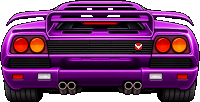
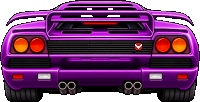
Diablo: piscas traseiros nas lanternas de fora, como no carro real (v0.22.5)
Claude-Session: https://claude.ai/code/session_01MLD9VR7gkmY4w6a9beZcp6

Changed region(s): [[0.06, 0.3529, 0.24, 0.5294]]

diff --git a/src/cars.ts b/src/cars.ts
@@ -320,8 +320,8 @@ export const DEALER_CARS = CARS.filter((c) => !c.arcadeOnly);
 const VARIANT_PAINT: Record<string, string> = { nero: 'Deep Black', rosso: 'Rosso Lucido', blu: 'Blu Le Mans', verde: 'Verde Ithaca', giallo: 'Giallo' };
 
 const LAMPS: Record<string, LampDef> = {
-  diablo: { pop: [0.14, 0.485, 0.3, 0.6], sigRear: [0.183, 0.44, 0.04], sigFront: [0.113, 0.7, 0.175, 0.75] },
-  patrolsv: { pop: [0.14, 0.495, 0.3, 0.608], podColor: '#1c1c1e', sigRear: [0.183, 0.466, 0.04], sigFront: [0.113, 0.706, 0.175, 0.755] }, // Diablo novo + giroflex (patrolsv_sprites.py)
+  diablo: { pop: [0.14, 0.485, 0.3, 0.6], sigRear: [0.106, 0.43, 0.04], sigFront: [0.113, 0.7, 0.175, 0.75] },
+  patrolsv: { pop: [0.14, 0.495, 0.3, 0.608], podColor: '#1c1c1e', sigRear: [0.106, 0.458, 0.04], sigFront: [0.113, 0.706, 0.175, 0.755] }, // Diablo novo + giroflex (patrolsv_sprites.py)
   f40: { head: [0.195, 0.613, 0.03], sigRear: [0.138, 0.446, 0.04], sigFront: [0.105, 0.595, 0.165, 0.649] },
   zr1: { pop: [0.105, 0.385, 0.29, 0.505], sigRear: [0.135, 0.39, 0.045], sigRed: true, sigFront: [0.03, 0.66, 0.07, 0.73] },
   testarossa: { pop: [0.067, 0.424, 0.256, 0.534], popLit: [0.126, 0.472], sigRear: [0.08, 0.42, 0.182, 0.556], sigFront: [0.061, 0.636, 0.228, 0.686] },
